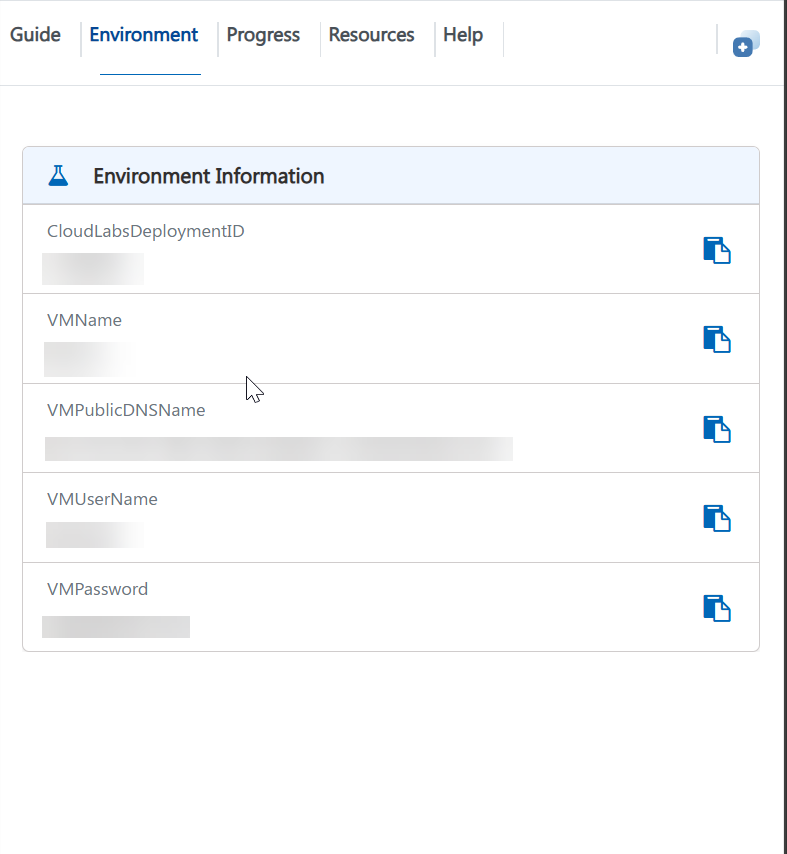
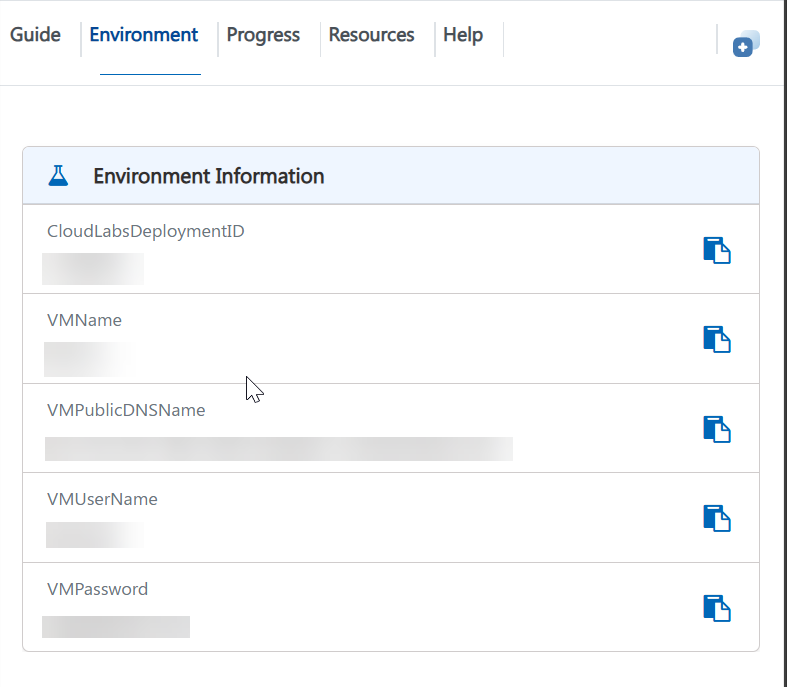
updated getting started page

diff --git a/MicroL/Labguides/GettingStarted.md b/MicroL/Labguides/GettingStarted.md
@@ -27,7 +27,7 @@ Your virtual machine is the environment where all lab activities will be perform
 
 To view environment information, credentials, and resource details, navigate to the **Environment** tab.
 
-![alt text](image-6.png)
+![alt text](image-12.png)
 
 ---
 # Utilizing the Split Window Feature